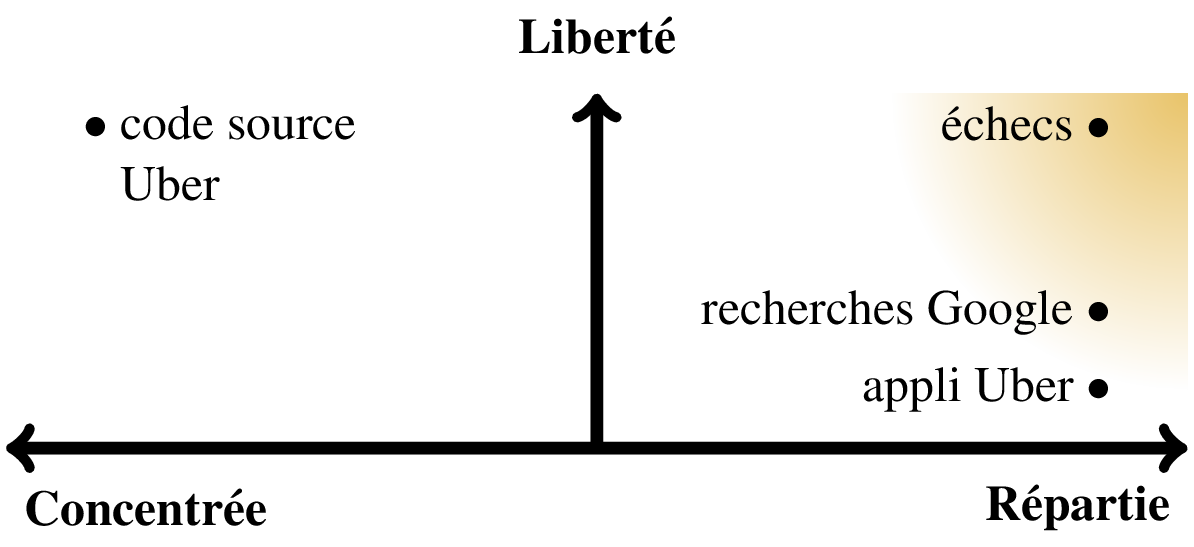
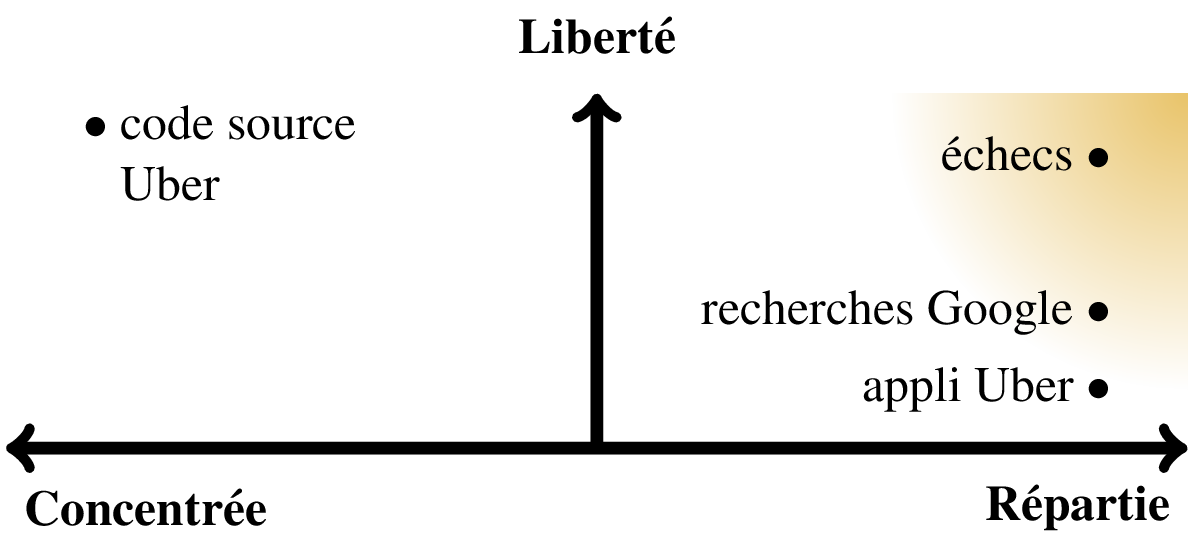
en cours

Changed region(s): [[0.7747, 0.1865, 0.9296, 0.3108]]

diff --git a/content/fr/decembre2020/index.html b/content/fr/decembre2020/index.html
@@ -497,93 +497,81 @@ class: center, middle
 
 # Qu'est-ce que la codératie?
 
-1. La tendance est déjà à enseigner la programmation de façon plus générale
+<br>
+
+* La codératie est la capacité à comprendre et modifier le code source
+
+    * c'est la compétence de programmation informatique
+
+<br>
+
+* Ça va au delà de la littératie numérique, qui se limite à l'utilisation d'outils
 
 
-1. Le logiciel libre est en santé
+<br>
 
-1. 27% des programmeurs utilisent Linux (contre 1% en général)
 
-* C'est en accédant au code source qu'on peut:
+* La codératie concerne plutôt la modification et la création de programmes
 
-    * vérifier qu'un algorithme se comporte tel qu'annoncé
+    * p.ex. pour la collecte ou l'analyse de données
 
-    * 
+<br>
 
-* C'est en augmentant le taux de codératie qu'on va
+* La tendance est déjà d'enseigner la programmation de façon plus générale
 
-    * rendre l'informatique plus représentative
+    * p.ex. dans le nouveau programme collégial de sciences de la nature
 
-        * 90% des programmeurs sont des hommes
+---
+# La codératie à la rescousse?
+
+<br>
+
+* Avec un taux de codératie élevé, l'informatique serait très différente:
+
+    * le logiciel libre est un avant-goût:
+        * respect de la vie privée
+        * rejet des tactiques d'exploitation économique
+        * collaboration pour améliorer les outils
+
+<br>
+
+   
+* L'adoption d'outils libres semble influencé par la codératie
+
+    * 27% des programmeurs utilisent Linux (contre 1% en général)
+
+<br>
+
+* Accéder au code source permet de vérifier:
+
+    * qu'un algorithme fonctionne tel qu'annoncé
+
+    * qu'un programme ne cache pas de comportements malicieux
 
 
 
 ---
-# Le pouvoir émancipateur du code
-
----
-# La liberté informatique est aussi collective
+# Fortifier la démocratie
 
 <br>
 
-<table>
-    <tr class="liberte">
-        <th style="padding:40px;text-align:center;">Liberté de presse
-        </th>
-        <td style="padding:40px;vertical-align:middle;text-align:center">
-            Accès à l'information
-        </td>
-        <td style="padding:40px;vertical-align:middle;text-align:center">
-            Littératie
-        </td>
-    </tr>
-    <tr class="liberte">
-        <th style="padding-bottom:40px;padding-top:40px;text-align:center;">Liberté informatique</th>
-        <td style="vertical-align:middle;text-align:center">
-            Accès au code source
-        </td>
-        <td style="vertical-align:middle;text-align:center">
-            Codératie<br>
-        </td>
-    </tr>
-    <!--
-    <tr>
-        <td>&nbsp;</td>
-        <td>&nbsp;</td>
-        <td>&nbsp;</td>
-    </tr>
-    <tr>
-        <td>&nbsp;</td>
-        <td>&nbsp;</td>
-        <td>&nbsp;</td>
-    </tr>
-    <tr>
-        <td>&nbsp;</td>
-        <td>&nbsp;</td>
-        <td>&nbsp;</td>
-    </tr>
-    <tr>
-        <td>&nbsp;</td>
-        <td>&nbsp;</td>
-        <td>&nbsp;</td>
-    </tr>
-    <tr>
-        <td>
-        </td>
-        <td colspan="2" style="text-align:right;">
-            capacité à comprendre le code (*)&nbsp;&nbsp;&nbsp;&nbsp;
-        </td>
-    </tr>
-    -->
-</table>
+* L'informatique se doit d'être plus représentative
+
+    * p.ex. 90% des programmeurs sont des hommes
 
 <br>
 
-* Faire contre-poids aux plateformes
+* La liberté informatique peut fonctionner comme la liberté de presse
+
+    * mais en s'appuyant sur la codératie et l'accès au code source
 
 <br>
 
-* Faire pression pour des algorithmes éthiques et équitables
+* Il faut faire contre-poids aux plateformes
+
+<br>
+
+* Il faut faire pression pour des algorithmes éthiques et équitables
 
 ---
 

diff --git a/content/fr/decembre2020/cadrans/cadran_liberte.tex b/content/fr/decembre2020/cadrans/cadran_liberte.tex
@@ -26,7 +26,7 @@
     %\draw (0cm,2.75cm) node [anchor=center] {traductions Google?};
 
 
-    \draw (4.5cm,2.75cm) node [anchor=east]  { échecs $\bullet$ };
+    \draw (4.5cm,2.5cm) node [anchor=east]  { échecs $\bullet$ };
 
     \draw (-4.5cm,2.5cm) node [anchor=west]  {$\bullet$ \parbox[t]{4cm}{code source\\Uber}};
 
